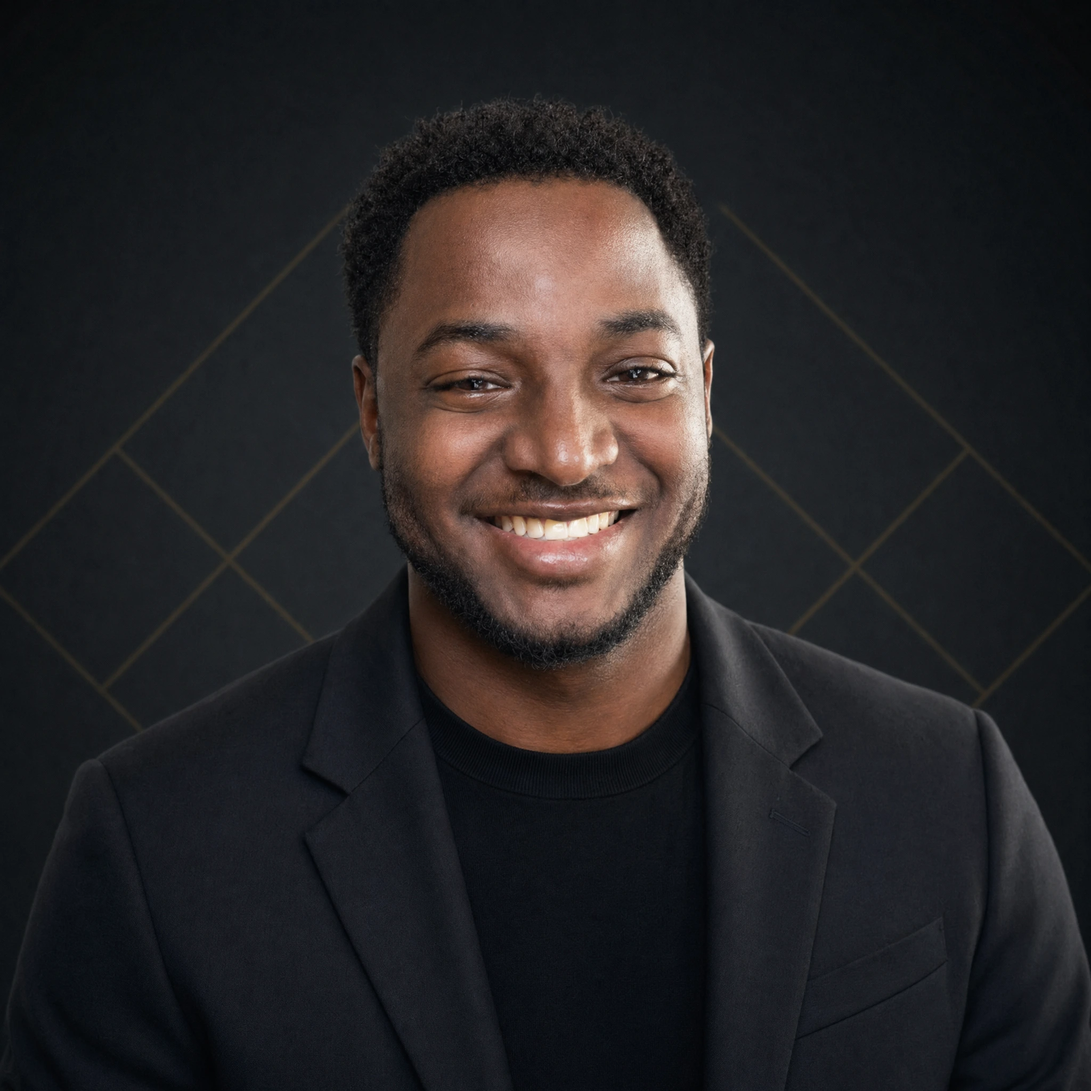
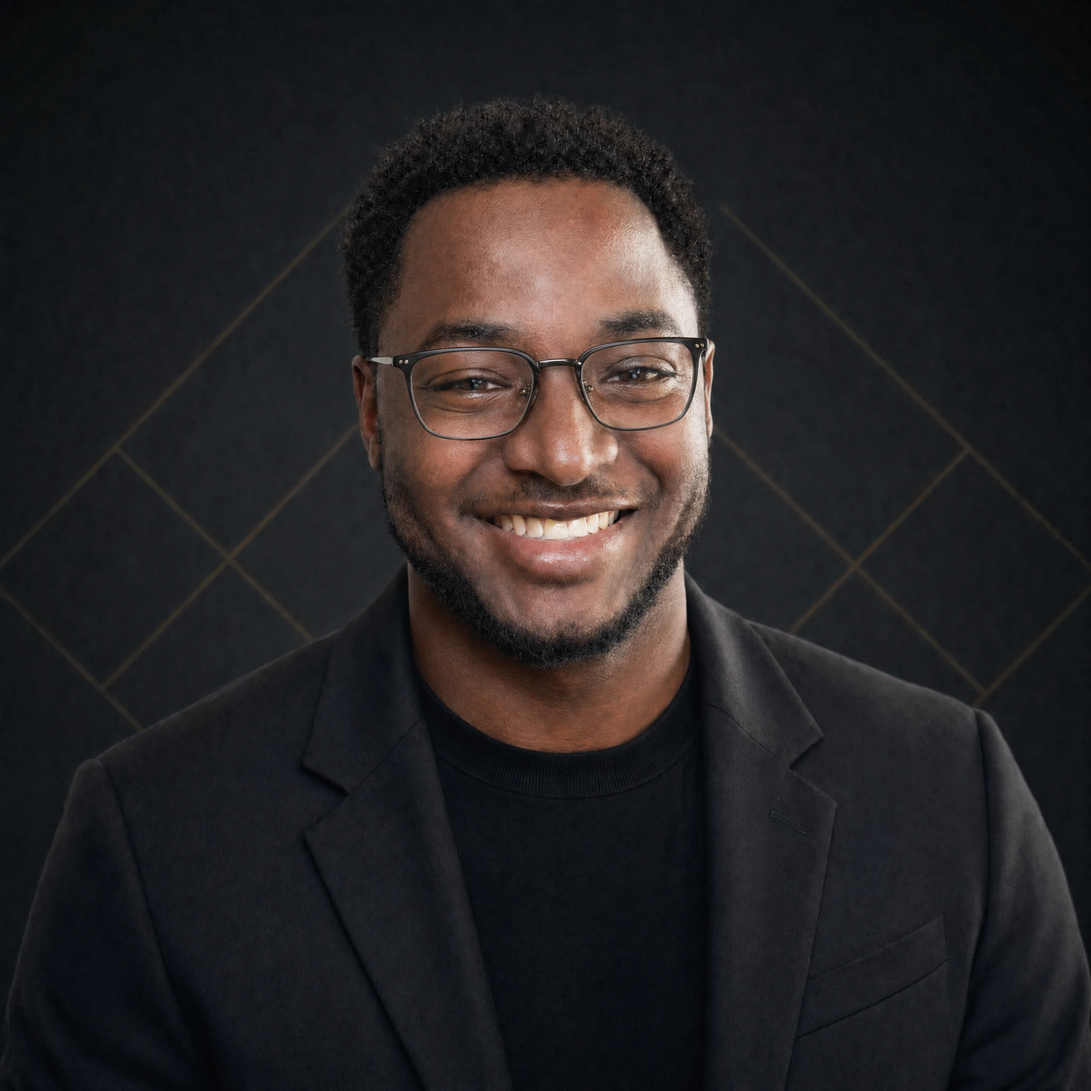
Update: Souly photo (glasses) + center carousel role/h3/tagline, enlarge role label
- Replace assets/souly.webp with glasses version (Souly's preference)
- Center .role / h3 / first-of-type p (tagline) inside founder content column
- Keep narrative paragraphs and quote left-aligned
- Enlarge .role: 11px -> 12.5px desktop, 9px -> 10.5px mobile, 8.2px -> 9.2px <=380px
- Adjusted letter-spacing per breakpoint to keep nowrap one-line on all viewports

diff --git a/index.html b/index.html
@@ -689,15 +689,24 @@
     transition:all .3s ease;
   }
   .team-dot.active{background:var(--gold);width:28px;border-radius:4px}
-  .founder .role{font-family:'Inter',sans-serif;font-size:11px;color:var(--gold);letter-spacing:0.32em;text-transform:uppercase;font-weight:500;margin-bottom:18px}
-  .founder h3{font-family:'Inter',sans-serif;font-size:42px;font-weight:800;letter-spacing:-0.02em;text-transform:none;margin-bottom:30px;line-height:1.1}
-  .founder p{color:var(--text-mute);font-size:16px;line-height:1.75;margin-bottom:20px;font-weight:300}
+  .founder > div:last-child{text-align:center}
+  .founder .role{font-family:'Inter',sans-serif;font-size:12.5px;color:var(--gold);letter-spacing:0.34em;text-transform:uppercase;font-weight:500;margin-bottom:18px;white-space:nowrap;overflow:hidden;text-align:center}
+  @media(max-width:600px){
+    .founder .role{font-size:10.5px;letter-spacing:0.22em}
+  }
+  @media(max-width:380px){
+    .founder .role{font-size:9.2px;letter-spacing:0.16em}
+  }
+  .founder h3{font-family:'Inter',sans-serif;font-size:42px;font-weight:800;letter-spacing:-0.02em;text-transform:none;margin-bottom:30px;line-height:1.1;text-align:center}
+  .founder p:first-of-type{text-align:center}
+  .founder p{color:var(--text-mute);font-size:16px;line-height:1.75;margin-bottom:20px;font-weight:300;text-align:left}
   .founder p strong{color:var(--text);font-weight:500;font-family:'Inter',sans-serif;text-transform:uppercase;letter-spacing:0.05em;font-size:14px;letter-spacing:0.05em}
   .founder-quote{
     margin-top:30px;padding-top:24px;
     border-top:1px solid var(--line-soft);
     font-family:'Playfair Display',serif;font-style:italic;
     font-size:15px;color:var(--text-mute);line-height:1.7;
+    text-align:left;
   }
 
   /* ===== VALUE STACK ===== */
